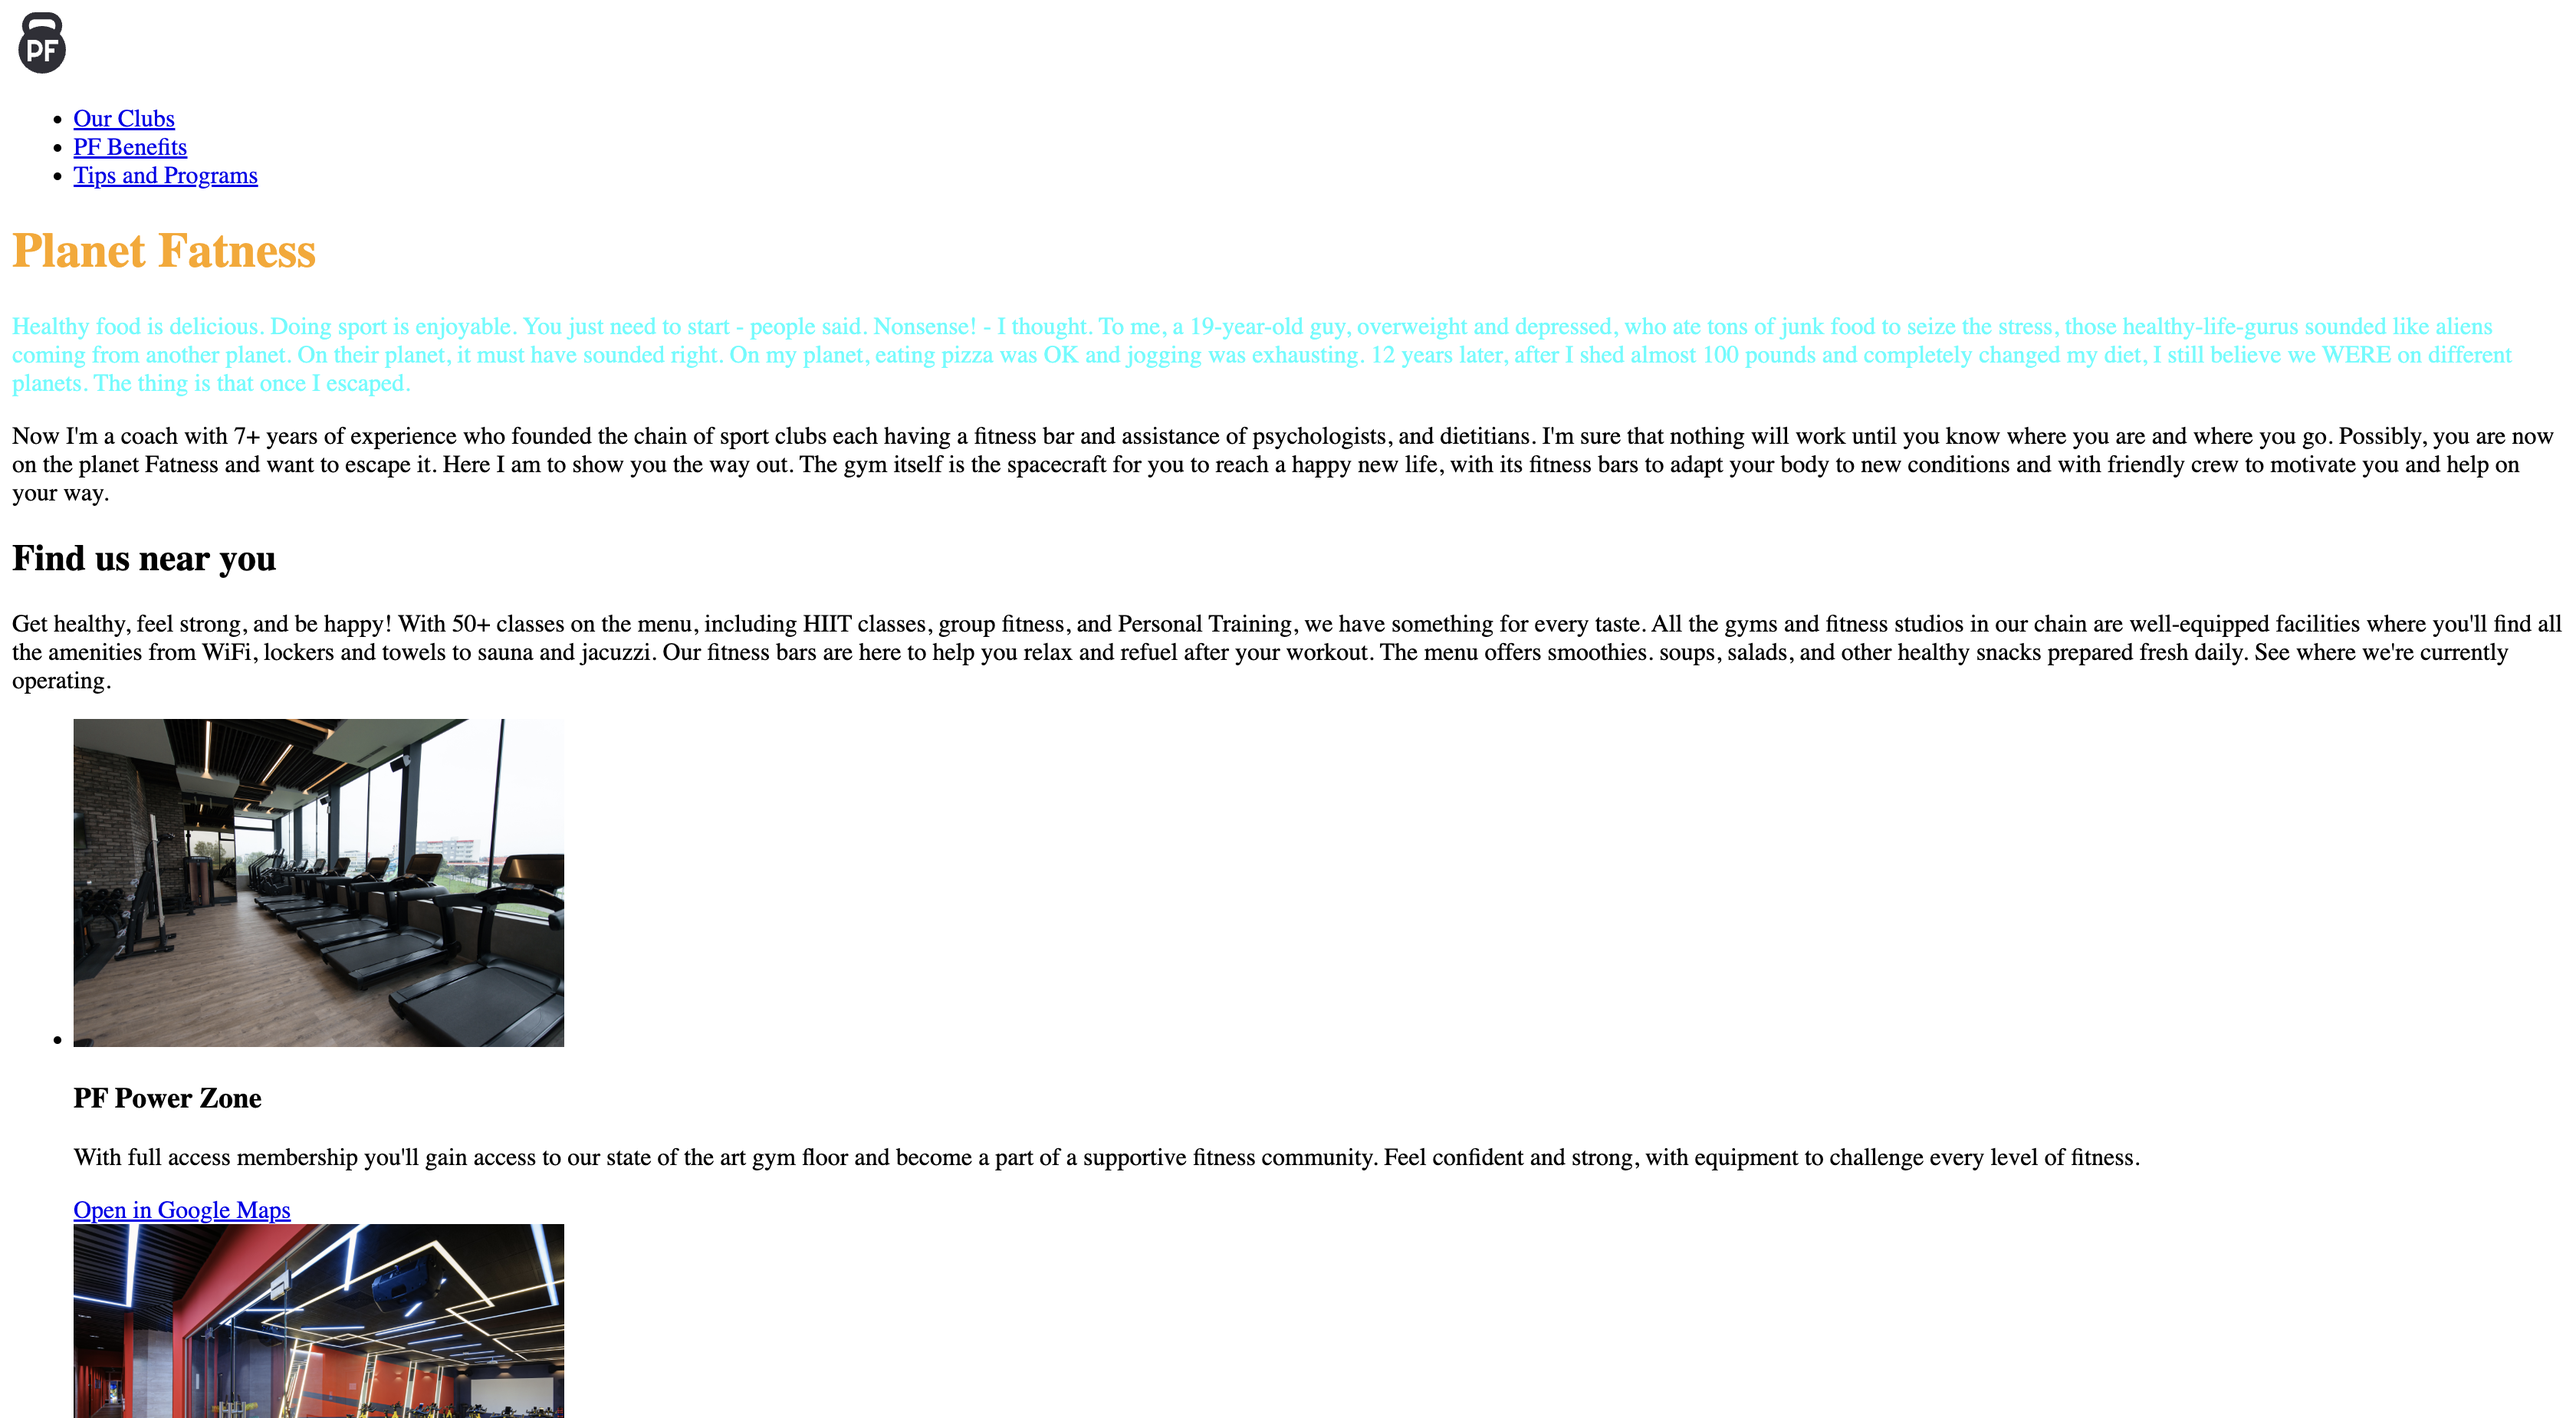
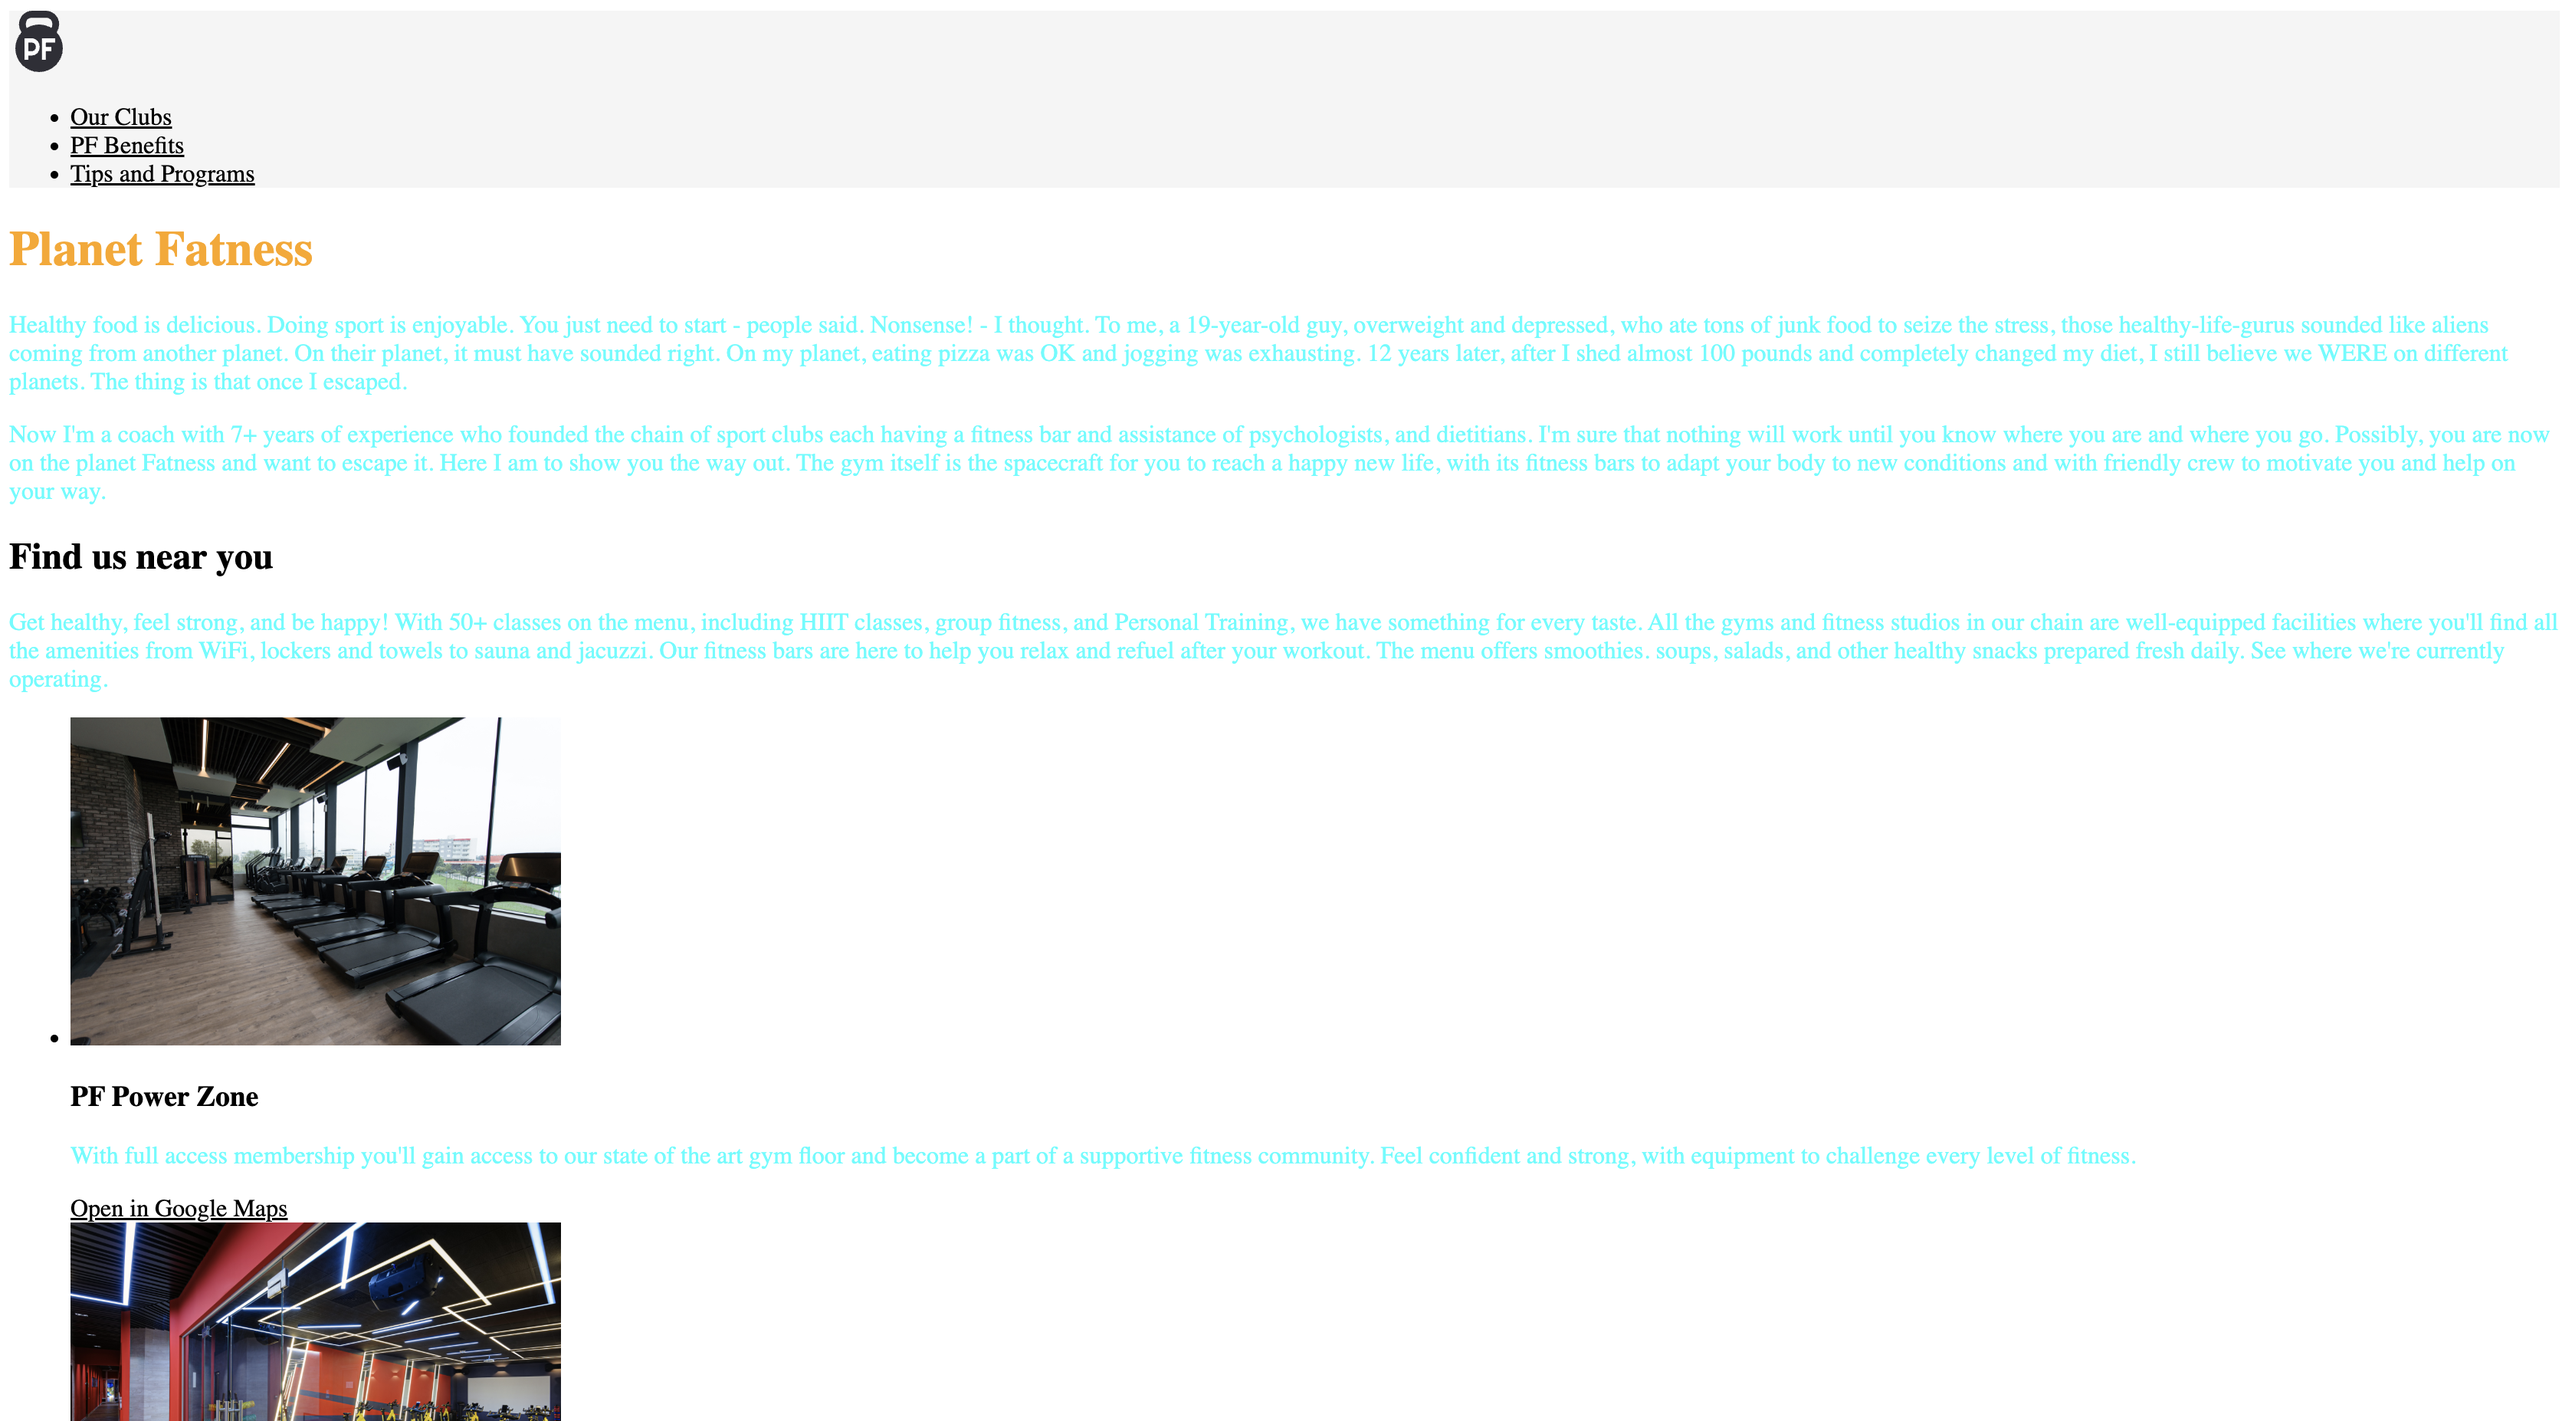
todo 4

diff --git a/css/styles.css b/css/styles.css
@@ -5,8 +5,8 @@ p {
   color: cyan;
 }
 a {
-  color: black;
+  color: rgb(0, 0, 0);
 }
- header {
-  background-color: whitesmoke;
-} 
+header {
+  background-color: rgb(245, 245, 245);
+}

diff --git a/README.md b/README.md
@@ -11,7 +11,7 @@ Page of the gym network!
 2. Add the links to the links for links in which the color of the text of the
 links on Black.
 3. Add a Header Tag Tag File, in which the color of its background is changed on WhitesMoke.
-<!-- 4. Changes in color value in the style file on RGB.Instead of WhitesMoke, use
-   color 245, 245, 245 instead of black grounds 0, 0, 0, 0 -->
+4. Changes in color value in the style file on RGB.Instead of WhitesMoke, use
+   color 245, 245, 245 instead of black grounds 0, 0, 0, 0
 
 ![Опис зображення](./asset/planet-fatness.png)
